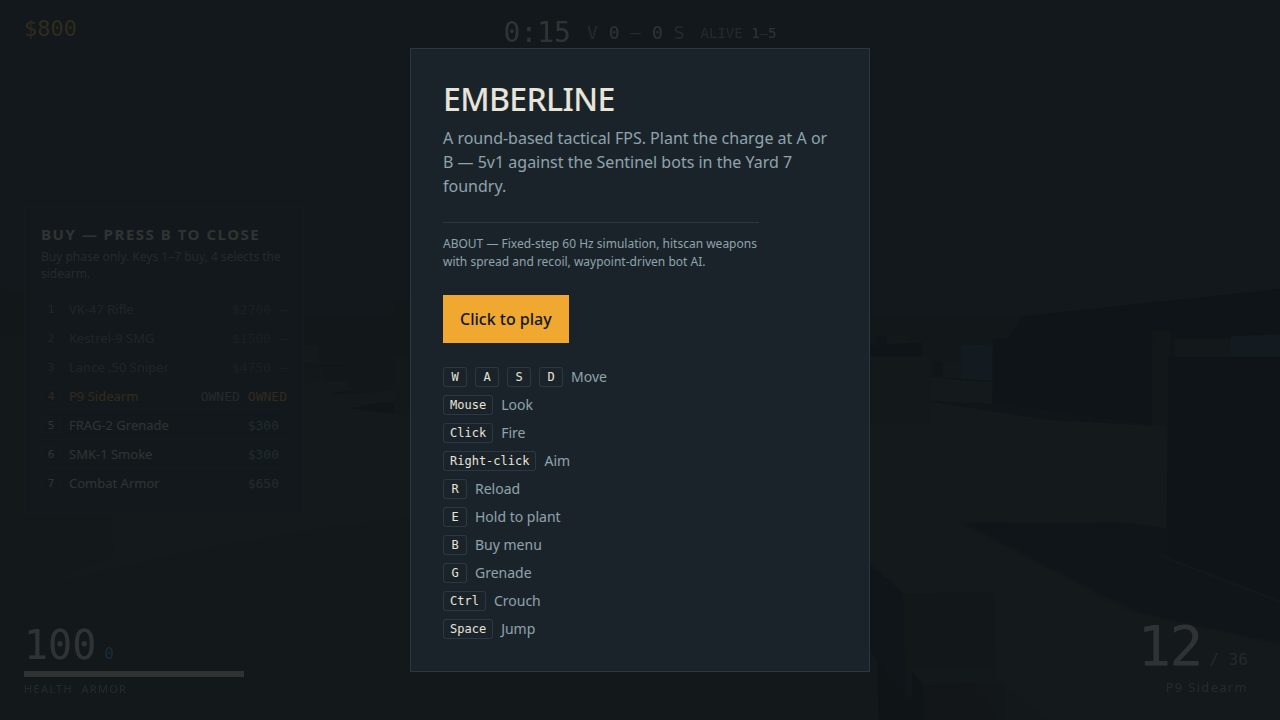
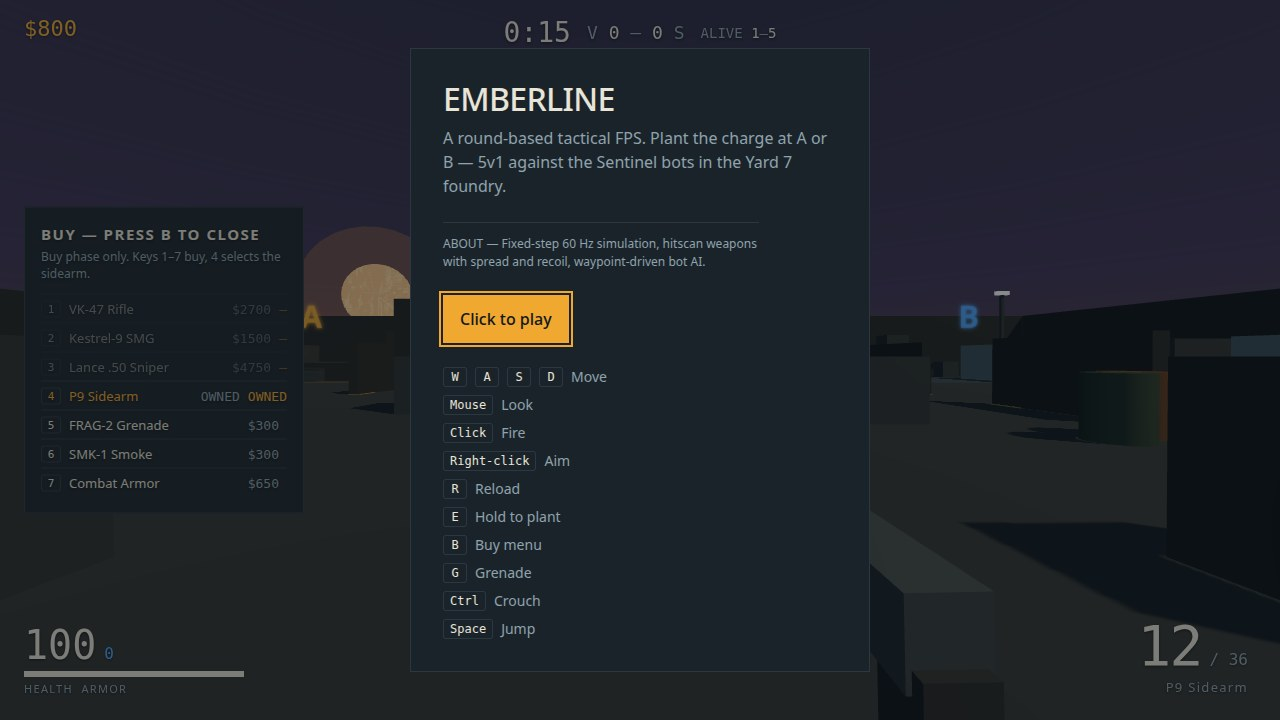
Visual rebuild: dusk sky + sun, site beacons, props, brighter bots/guns, 4th buy screenshot
- Procedural dusk gradient sky dome + low sun disc/halo (was flat dark)
- Glowing A/B site letters, tinted site zones, lane stripe, hazard strips
- Barrels, silo, B-dock floodlight; hemi/sun/fill lighting raised
- Bots: lighter bodies, bright visors, amber trim; rifle: rear sight/front post
- Muzzle flash is now a radial-gradient crossed star, not a yellow quad
- New ?shot=buy mode: 4th screenshot shows the buy menu/economy live
- Play capture settles past the flash so the kill + HUD read clean
- Shot overlays dimmed so the yard shows through the panels

diff --git a/game/src/world.js b/game/src/world.js
@@ -33,7 +33,80 @@ export function createWorld(scene) {
   const group = new THREE.Group();
   scene.add(group);
   scene.background = new THREE.Color(PALETTE.canvas);
-  scene.fog = new THREE.Fog(PALETTE.canvas, 55, 120);
+  scene.fog = new THREE.Fog(new THREE.Color('#2b333d'), 48, 115);
+
+  // Dusk sky dome: procedural vertical gradient (indigo -> violet -> amber
+  // horizon) + a low sun disc, so the top half of the frame reads as dusk
+  // instead of flat dark. CanvasTexture is generated at runtime; no assets.
+  function skyTexture() {
+    const c = document.createElement('canvas');
+    c.width = 4;
+    c.height = 512;
+    const g = c.getContext('2d');
+    const grad = g.createLinearGradient(0, 0, 0, 512);
+    grad.addColorStop(0.0, '#141a2e');
+    grad.addColorStop(0.45, '#3a3050');
+    grad.addColorStop(0.68, '#8a4a3a');
+    grad.addColorStop(0.78, '#e08a3c');
+    grad.addColorStop(0.86, '#5a3a28');
+    grad.addColorStop(1.0, '#1a232b');
+    g.fillStyle = grad;
+    g.fillRect(0, 0, 4, 512);
+    const tex = new THREE.CanvasTexture(c);
+    tex.colorSpace = THREE.SRGBColorSpace;
+    return tex;
+  }
+  const skyDome = new THREE.Mesh(
+    new THREE.SphereGeometry(110, 24, 16),
+    new THREE.MeshBasicMaterial({ map: skyTexture(), side: THREE.BackSide, fog: false }),
+  );
+  group.add(skyDome);
+  // Low sun disc + halo, set low in the north-west sky so it sits in the
+  // spawn view down mid, where the cover shots look.
+  const sunDisc = new THREE.Mesh(
+    new THREE.CircleGeometry(7, 32),
+    new THREE.MeshBasicMaterial({ color: 0xffd9a0, fog: false }),
+  );
+  sunDisc.position.set(-58, 15, -88);
+  sunDisc.lookAt(0, 2, 0);
+  group.add(sunDisc);
+  const sunHalo = new THREE.Mesh(
+    new THREE.CircleGeometry(15, 32),
+    new THREE.MeshBasicMaterial({ color: 0xe08a3c, transparent: true, opacity: 0.28, fog: false }),
+  );
+  sunHalo.position.set(-58, 15, -88);
+  sunHalo.lookAt(0, 2, 0);
+  group.add(sunHalo);
+
+  // Glowing site letters (A amber, B blue) floating above each site, so the
+  // map reads at a glance from any lane.
+  function letterTexture(letter, color) {
+    const c = document.createElement('canvas');
+    c.width = 256;
+    c.height = 256;
+    const g = c.getContext('2d');
+    g.font = 'bold 190px system-ui, sans-serif';
+    g.textAlign = 'center';
+    g.textBaseline = 'middle';
+    g.shadowColor = color;
+    g.shadowBlur = 28;
+    g.fillStyle = color;
+    g.fillText(letter, 128, 136);
+    const tex = new THREE.CanvasTexture(c);
+    tex.colorSpace = THREE.SRGBColorSpace;
+    return tex;
+  }
+  function siteLetter(letter, color, x, z) {
+    const m = new THREE.Mesh(
+      new THREE.PlaneGeometry(2.8, 2.8),
+      new THREE.MeshBasicMaterial({ map: letterTexture(letter, color), transparent: true, side: THREE.DoubleSide, depthWrite: false }),
+    );
+    m.position.set(x, 4.2, z);
+    group.add(m);
+    return m;
+  }
+  const letterA = siteLetter('A', '#f0a830', -22, -14);
+  const letterB = siteLetter('B', '#4da6ff', 22, -14);
 
   const mats = {};
   for (const name of Object.keys(PALETTE)) {
@@ -125,10 +198,54 @@ export function createWorld(scene) {
   box(20, 0.6, 0.6, 0, 0.3, -20.5, mats.hairline);
   box(16, 0.6, 0.6, -8, 0.3, 20.5, mats.hairline);
 
+  // Painted ground markings (flat, non-colliding): tinted site zones, a mid
+  // lane stripe, and hazard strips flanking the mid-link door gaps.
+  const zoneA = new THREE.MeshStandardMaterial({ color: new THREE.Color(PALETTE.siteA), transparent: true, opacity: 0.14, roughness: 0.9 });
+  const zoneB = new THREE.MeshStandardMaterial({ color: new THREE.Color(PALETTE.siteB), transparent: true, opacity: 0.14, roughness: 0.9 });
+  box(8, 0.02, 6, -22, 0.01, -14, zoneA, false);
+  box(8, 0.02, 6, 22, 0.01, -14, zoneB, false);
+  box(0.35, 0.02, 22, 0, 0.01, 1, mats.lane, false);
+  box(0.5, 0.02, 1.2, -12, 0.01, -2.6, mats.hazard, false);
+  box(0.5, 0.02, 1.2, -12, 0.01, 2.6, mats.hazard, false);
+  box(0.5, 0.02, 1.2, 12, 0.01, -2.6, mats.hazard, false);
+  box(0.5, 0.02, 1.2, 12, 0.01, 2.6, mats.hazard, false);
+
+  // Barrels (cylinders with box colliders) and a storage silo at the north
+  // edge, kept clear of every waypoint so bot routes stay open.
+  const barrelGeo = new THREE.CylinderGeometry(0.55, 0.55, 1.3, 12);
+  const barrelRust = new THREE.MeshStandardMaterial({ color: 0x7a4a22, roughness: 0.7, metalness: 0.3 });
+  const barrelGreen = new THREE.MeshStandardMaterial({ color: 0x2e4a3a, roughness: 0.7, metalness: 0.3 });
+  function barrel(x, z, mat) {
+    const m = new THREE.Mesh(barrelGeo, mat);
+    m.position.set(x, 0.65, z);
+    m.castShadow = true;
+    m.receiveShadow = true;
+    group.add(m);
+    colliders.push(new THREE.Box3().setFromObject(m));
+    shootables.push(m);
+  }
+  barrel(-8, 8, barrelRust);
+  barrel(-8.9, 8.6, barrelGreen);
+  barrel(9, 9, barrelGreen);
+  barrel(9.9, 8.4, barrelRust);
+  barrel(-27, 4, barrelGreen);
+  barrel(27, 6, barrelRust);
+  box(2.2, 5.5, 2.2, -8, 2.75, -20.5, mats.hairline);
+  box(2.2, 0.4, 2.2, -8, 5.7, -20.5, mats.surface);
+
+  // Floodlight mast over the B dock: emissive head + a cool point light so
+  // the east side stops reading as a black void.
+  const headMat = new THREE.MeshStandardMaterial({ color: 0x111111, emissive: 0xbfd9ff, emissiveIntensity: 2.2 });
+  box(0.22, 6.5, 0.22, 28, 3.25, -19, mats.hairline);
+  box(0.9, 0.3, 0.4, 28, 6.5, -19, headMat);
+  const dockLight = new THREE.PointLight(new THREE.Color('#9cc4ff'), 1.6, 22, 2);
+  dockLight.position.set(26, 6, -17);
+  scene.add(dockLight);
+
   // Light: cool hemisphere, warm low sun with shadows, amber furnace point light.
-  const sky = new THREE.HemisphereLight(new THREE.Color(PALETTE.muted), new THREE.Color(PALETTE.canvas), 1.3);
+  const sky = new THREE.HemisphereLight(new THREE.Color(PALETTE.muted), new THREE.Color(PALETTE.canvas), 1.7);
   scene.add(sky);
-  const sun = new THREE.DirectionalLight(new THREE.Color('#ffe0b0'), 2.6);
+  const sun = new THREE.DirectionalLight(new THREE.Color('#ffe0b0'), 3.2);
   sun.position.set(18, 26, 10);
   sun.target.position.set(0, 0, -3);
   sun.castShadow = true;
@@ -140,7 +257,7 @@ export function createWorld(scene) {
   sun.shadow.camera.far = 80;
   sun.shadow.bias = -0.0006;
   scene.add(sun, sun.target);
-  const fill = new THREE.DirectionalLight(new THREE.Color(PALETTE.muted), 0.7);
+  const fill = new THREE.DirectionalLight(new THREE.Color(PALETTE.muted), 0.9);
   fill.position.set(-10, 9, 12);
   scene.add(fill);
   const furnaceLight = new THREE.PointLight(new THREE.Color(PALETTE.accent), 2.0, 20, 2);
@@ -183,6 +300,10 @@ export function createWorld(scene) {
     t += dt;
     furnaceLight.intensity = 1.9 + Math.sin(t * 7.3) * 0.3 + Math.sin(t * 13.7) * 0.18;
     furnaceMat.emissiveIntensity = 1.15 + Math.sin(t * 9.1) * 0.22;
+    // Site beacons breathe gently so the letters catch the eye without flashing.
+    const pulse = 0.85 + Math.sin(t * 2.2) * 0.15;
+    letterA.material.opacity = pulse;
+    letterB.material.opacity = pulse;
   }
 
   return {

diff --git a/game/src/weapons.js b/game/src/weapons.js
@@ -54,6 +54,9 @@ function buildModel(id, mats) {
     mag.rotation.x = 0.25;
     g.add(mag);
     g.add(box(0.02, 0.03, 0.1, mats.accent, 0, 0.06, -0.28));
+    // Rear sight + front post so the rifle reads as a rifle, not a slab.
+    g.add(box(0.06, 0.04, 0.03, mats.dark, 0, 0.07, 0.08));
+    g.add(box(0.015, 0.05, 0.015, mats.accent, 0, 0.06, -0.32));
   } else {
     g.add(box(0.08, 0.09, 0.5, mats.body, 0, 0, -0.12));
     g.add(box(0.035, 0.035, 0.62, mats.dark, 0, 0.02, -0.62));
@@ -70,9 +73,9 @@ function buildModel(id, mats) {
 
 export function createWeaponRig(camera, gameState = null) {
   const mats = {
-    body: new THREE.MeshStandardMaterial({ color: 0x3a444c, roughness: 0.5, metalness: 0.4 }),
-    dark: new THREE.MeshStandardMaterial({ color: 0x22282e, roughness: 0.7, metalness: 0.25 }),
-    grip: new THREE.MeshStandardMaterial({ color: 0x1a1e22, roughness: 0.85, metalness: 0.1 }),
+    body: new THREE.MeshStandardMaterial({ color: 0x55636e, roughness: 0.5, metalness: 0.4 }),
+    dark: new THREE.MeshStandardMaterial({ color: 0x2c343b, roughness: 0.7, metalness: 0.25 }),
+    grip: new THREE.MeshStandardMaterial({ color: 0x24292e, roughness: 0.85, metalness: 0.1 }),
     accent: new THREE.MeshStandardMaterial({ color: 0xf0a830, roughness: 0.4, metalness: 0.3, emissive: 0x664400 }),
   };
   const models = {};
@@ -84,11 +87,29 @@ export function createWeaponRig(camera, gameState = null) {
     models[id] = m;
   }
 
-  // One flash plane + light, re-parented to the active gun's muzzle.
-  const flash = new THREE.Mesh(
-    new THREE.PlaneGeometry(0.16, 0.16),
-    new THREE.MeshBasicMaterial({ color: 0xffc860, transparent: true, opacity: 0.75, depthWrite: false, side: THREE.DoubleSide }),
-  );
+  // Muzzle flash: two crossed planes with a radial-gradient texture, so a
+  // shot reads as a flash instead of the flat yellow quad it used to be.
+  function flashTexture() {
+    const c = document.createElement('canvas');
+    c.width = 128;
+    c.height = 128;
+    const g = c.getContext('2d');
+    const grad = g.createRadialGradient(64, 64, 2, 64, 64, 62);
+    grad.addColorStop(0, 'rgba(255,240,190,1)');
+    grad.addColorStop(0.35, 'rgba(255,190,80,0.9)');
+    grad.addColorStop(1, 'rgba(255,140,30,0)');
+    g.fillStyle = grad;
+    g.fillRect(0, 0, 128, 128);
+    const tex = new THREE.CanvasTexture(c);
+    tex.colorSpace = THREE.SRGBColorSpace;
+    return tex;
+  }
+  const flashMat = new THREE.MeshBasicMaterial({ map: flashTexture(), transparent: true, opacity: 0.95, depthWrite: false, side: THREE.DoubleSide });
+  const flash = new THREE.Group();
+  const flashPlane1 = new THREE.Mesh(new THREE.PlaneGeometry(0.22, 0.22), flashMat);
+  const flashPlane2 = flashPlane1.clone();
+  flashPlane2.rotation.z = Math.PI / 2;
+  flash.add(flashPlane1, flashPlane2);
   flash.visible = false;
   const flashLight = new THREE.PointLight(0xffb840, 0, 6);
   const flashRig = new THREE.Group();

diff --git a/game/src/bots.js b/game/src/bots.js
@@ -32,9 +32,9 @@ function yawTo(from, x, z) {
 }
 
 function buildBody(scene, bot) {
-  const bodyMat = new THREE.MeshStandardMaterial({ color: 0x2b343c, roughness: 0.6, metalness: 0.2 });
-  const darkMat = new THREE.MeshStandardMaterial({ color: 0x1c2126, roughness: 0.8, metalness: 0.1 });
-  const visorMat = new THREE.MeshStandardMaterial({ color: 0xf0a830, roughness: 0.3, metalness: 0.2, emissive: 0x8a5c00 });
+  const bodyMat = new THREE.MeshStandardMaterial({ color: 0x4a5a66, roughness: 0.6, metalness: 0.2 });
+  const darkMat = new THREE.MeshStandardMaterial({ color: 0x232a30, roughness: 0.8, metalness: 0.1 });
+  const visorMat = new THREE.MeshStandardMaterial({ color: 0xffb020, roughness: 0.3, metalness: 0.2, emissive: 0xff9d00, emissiveIntensity: 1.8 });
   const group = new THREE.Group();
 
   const torso = new THREE.Mesh(new THREE.BoxGeometry(0.52, 0.78, 0.3), bodyMat);
@@ -45,12 +45,20 @@ function buildBody(scene, bot) {
   head.userData = { bot, part: 'head' };
   const visor = new THREE.Mesh(new THREE.BoxGeometry(0.2, 0.06, 0.05), visorMat);
   visor.position.set(0, 1.55, -0.13);
+  // Amber shoulder + chest trim so a bot reads as a figure, not a dark box.
+  const trimMat = new THREE.MeshStandardMaterial({ color: 0xf0a830, emissive: 0x7a5200, emissiveIntensity: 0.9, roughness: 0.5 });
+  const shoulderL = new THREE.Mesh(new THREE.BoxGeometry(0.14, 0.06, 0.32), trimMat);
+  shoulderL.position.set(-0.26, 1.42, 0);
+  const shoulderR = new THREE.Mesh(new THREE.BoxGeometry(0.14, 0.06, 0.32), trimMat);
+  shoulderR.position.set(0.26, 1.42, 0);
+  const chest = new THREE.Mesh(new THREE.BoxGeometry(0.3, 0.08, 0.02), trimMat);
+  chest.position.set(0, 1.18, -0.16);
   const legs = new THREE.Mesh(new THREE.BoxGeometry(0.4, 0.7, 0.24), darkMat);
   legs.position.y = 0.35;
   legs.userData = { bot, part: 'legs' };
   const gun = new THREE.Mesh(new THREE.BoxGeometry(0.08, 0.12, 0.6), darkMat);
   gun.position.set(0.18, 1.25, -0.3);
-  group.add(torso, head, visor, legs, gun);
+  group.add(torso, head, visor, legs, gun, shoulderL, shoulderR, chest);
   group.traverse((m) => { if (m.isMesh) { m.castShadow = true; m.receiveShadow = true; } });
   group.position.copy(bot.pos);
   scene.add(group);

diff --git a/game/src/main.js b/game/src/main.js
@@ -400,6 +400,10 @@ function settle(n) {
 
 function runShot(name) {
   started = true;
+  // Shot modes are the cover art: let the yard show through the panel
+  // instead of a near-black backdrop.
+  const overlayEl = document.getElementById('overlay');
+  if (overlayEl) overlayEl.style.background = 'rgba(16,22,26,0.5)';
   if (name === 'start') {
     state.player.pos.set(0, 0, 18);
     state.player.yaw = 0;
@@ -466,10 +470,34 @@ function runShot(name) {
       shoot();
     }
     settle(1);
+    // Let the muzzle flash (60ms) and tracers expire before the freeze, so
+    // the capture shows the kill and the HUD, not a flash quad mid-burst.
+    settle(8);
     // Final top-up: return fire during the shooting sequence may have dented
     // HP again; the capture should show a healthy player.
     state.player.hp = 100;
     lastHp = 100;
+    syncHud();
+  } else if (name === 'buy') {
+    // Buy-phase cover: the economy on screen — buy menu open, $800, rifle
+    // unaffordable yet, bots already holding mid and the sites.
+    hud.hideOverlay();
+    state.phase = 'buy';
+    state.roundTime = 15;
+    rounds.buyOpen = true;
+    state.player.pos.set(0, 0, 18);
+    state.player.yaw = 0;
+    state.player.pitch = 0;
+    settle(240);
+    state.player.hp = 100;
+    state.player.alive = true;
+    lastHp = 100;
+    prevAlive = true;
+    // Bots can land a kill during the settle; the capture is the buy menu,
+    // not a death notice — drop any feed lines from the settle.
+    state.feed.length = 0;
+    _aim.set(0, 1.4, -10);
+    aimAt(_aim);
     syncHud();
   } else {
     state.score.vanguard = 1;
@@ -479,11 +507,11 @@ function runShot(name) {
     state.bomb.state = 'planted';
     state.bomb.site = 'A';
     state.bomb.fuse = 32;
-    state.player.pos.set(-18, 0, -10);
+    state.player.pos.set(-14, 0, -6);
     state.player.yaw = 0;
     state.player.pitch = 0;
     settle(10);
-    _aim.set(-22, 0.8, -14);
+    _aim.set(-22, 1.0, -14);
     aimAt(_aim);
     hud.showOverlay('roundEnd', { winner: 'vanguard', reason: 'explode', score: { vanguard: 1, sentinel: 0 } });
     syncHud();

diff --git a/game/index.html b/game/index.html
@@ -22,9 +22,9 @@
   * { box-sizing: border-box; }
   html, body { margin: 0; height: 100%; overflow: hidden; background: var(--canvas); color: var(--ink); font-family: var(--font-ui); }
   #game, #game canvas { position: fixed; inset: 0; display: block; }
-  #hud { position: fixed; inset: 0; pointer-events: none; }
+  #hud { position: fixed; inset: 0; pointer-events: none; text-shadow: 0 1px 3px rgba(0, 0, 0, .65); }
 
-  #crosshair { --gap: 6px; position: fixed; left: 50%; top: 50%; width: 22px; height: 22px; transform: translate(-50%, -50%); }
+  #crosshair { --gap: 6px; position: fixed; left: 50%; top: 50%; width: 22px; height: 22px; transform: translate(-50%, -50%); filter: drop-shadow(0 0 2px rgba(0, 0, 0, .8)); }
   #crosshair i { position: absolute; background: var(--ink); opacity: .9; }
   #crosshair i:nth-child(1) { left: 10px; top: calc(11px - var(--gap) - 7px); width: 2px; height: 7px; }
   #crosshair i:nth-child(2) { left: 10px; top: calc(11px + var(--gap)); width: 2px; height: 7px; }

diff --git a/game/src/palette.js b/game/src/palette.js
@@ -1,6 +1,6 @@
 // Palette for EMBERLINE: dusk foundry — charcoal, teal-grey, amber glow.
 export const PALETTE = {
-  canvas: '#1a232b',
+  canvas: '#222c35',
   surface: '#1b232a',
   hairline: '#2c3841',
   ink: '#e8e4d8',
@@ -8,4 +8,11 @@ export const PALETTE = {
   accent: '#f0a830',
   danger: '#e5484d',
   team: '#4da6ff',
+  // Ground + markings: a warmer floor, painted lane stripe, hazard yellow,
+  // and the two site colours (A amber, B blue) used for zone plates.
+  ground: '#252d33',
+  lane: '#39434d',
+  hazard: '#e8c33c',
+  siteA: '#f0a830',
+  siteB: '#4da6ff',
 };
